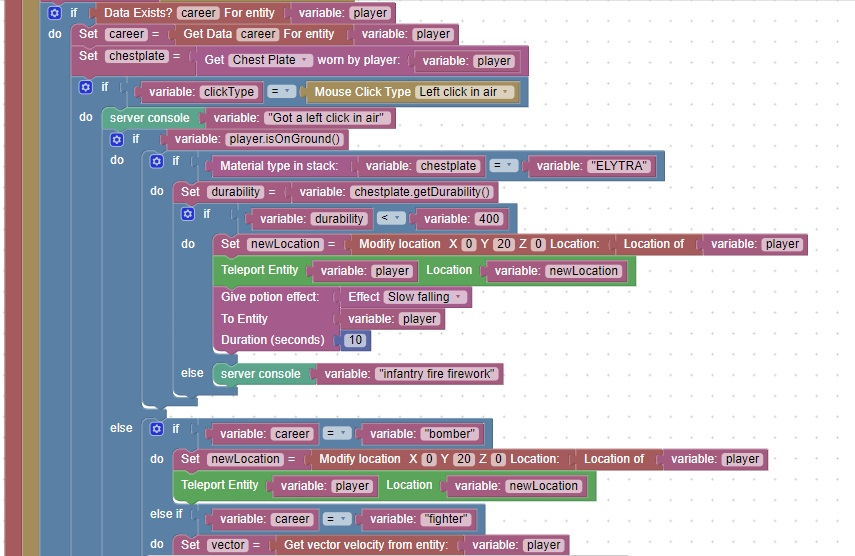
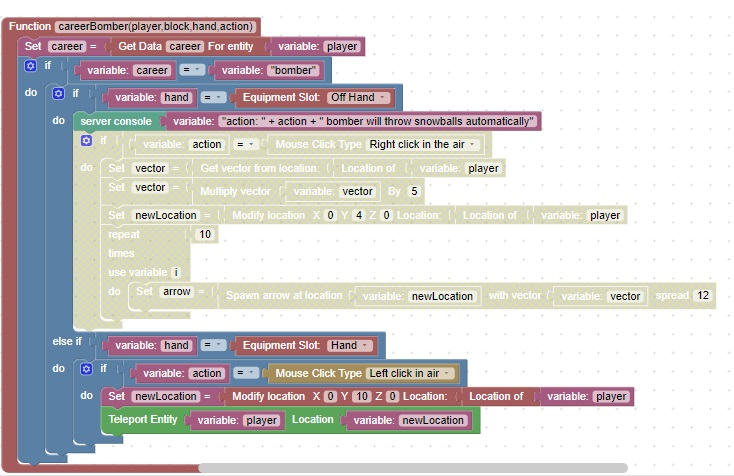
left click bomber

diff --git a/docs/level2LessonPlan.html b/docs/level2LessonPlan.html
@@ -27,10 +27,9 @@
    <tr><th>Class</th><th>Description</th></tr>
    <tr><td> 9</td><td><a href="addComments.html">Add Comments</a></td><td>Refactor player click event </td></tr>
    <tr><td>10</td><td><a href="incorrectServerCommands.html">Incorrect Server Commands</a>,<a href="fighterFuel.html">Fighter fuel</a></td><td><a href="fighterFuel.html">Fighter fuel(finish)</a></td></tr>
-   <tr><td>10</td><td><a href="blockOrganization.html">Block Organization</a>,<a href="leftClickBomber.html">Left click when career choice = bomber</a></td></tr>
-   <tr><td>11</td><td><a href="rightClickFighter.html">Right click when career choice = fighter</a></td></tr>
-   <tr><td>12</td><td><a href="rightClickBomber.html">Right click when career choice = bomber</a></td></tr>
-   <tr><td>13</td><td><a href="rightClickInfantry.html">Right click when career choice = infantry</a></td></tr>
+   <tr><td>11</td><td><a href="blockOrganization.html">Block Organization</a>,<a href="leftClickBomber.html">Left click when career choice = bomber</a></td></tr>
+   <tr><td>12</td><td>Give Snowballs to bombers, Exploding Snowballs, <a href="rightClickFighter.html">Right click when career choice = bomber</a></td></tr>
+   <tr><td>13</td><td><a href="firework.html">Fireworks</a>,<a href="rightClickInfantry.html">Right click when career choice = infantry</a></td></tr>
    <tr><td>14</td><td><a href="protectSpawn.html">Protecting spawn points</a></td></tr>
    <tr><td>15</td><td><a href="bedDestruction.html">Bed Destruction</td></tr>
    <tr><td>16</td><td><a href="respawnBeds.html">Respawn beds on server reload</a></td></tr>
@@ -39,7 +38,7 @@
  <h4>Session 3 Game Improvements</h4>
  <table border="2px">
    <tr><th>Class</th><th>Description</th></tr>
-   <tr><td>17</td><td><a href="whisper.html">Player Command Entered</a>,Exploding Snowballs</td></tr>
+   <tr><td>17</td><td><a href="whisper.html">Player Command Entered</a></td></tr>
    <tr><td>18</td><td>Spawn Arrows</td></tr>   
    <tr><td>19</td><td><a href="firework.html">Fireworks</td></tr>
    <tr><td>20</td><td>Slow Falling</td></tr>

diff --git a/docs/leftClickBomber.html b/docs/leftClickBomber.html
@@ -1,5 +1,5 @@
 <h1>Left click for bomber</h1>
-When a player clicks the left mouse button and their career choice is a bomber pilot, their altitude (y) will be increased by 20<br>
+When a player clicks the left mouse button and their career choice is a bomber pilot, their altitude (y) will be increased by 10<br>
 <img src="images/leftClickBomber.jpg"><br>
 <hr>
 <center><img src="images/ironGolemRose.jpg"></center>
